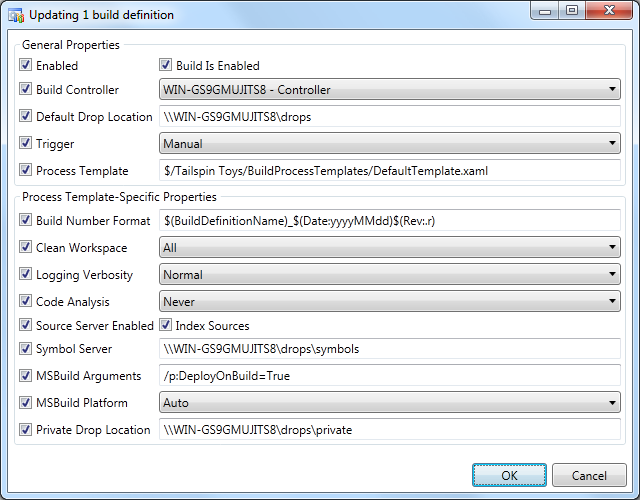
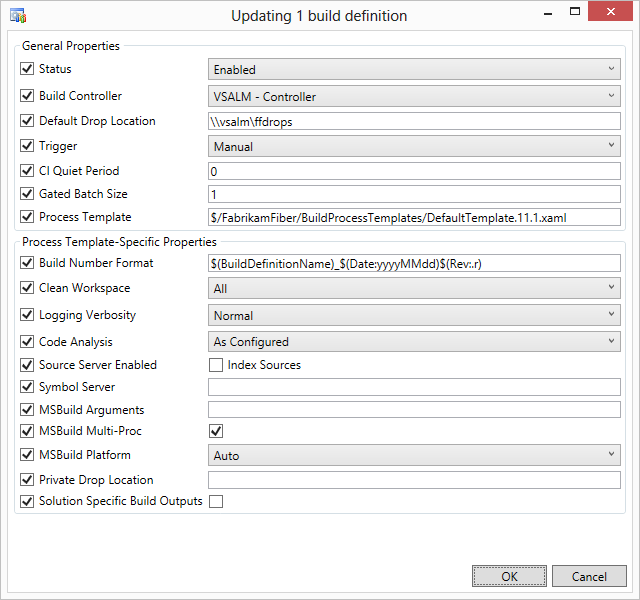
Merged changes from 2012 edition back to Main

diff --git a/TeamProjectManager.Modules.BuildDefinitions/BuildDefinitionUpdateDialog.xaml b/TeamProjectManager.Modules.BuildDefinitions/BuildDefinitionUpdateDialog.xaml
@@ -112,7 +112,7 @@
                         </ComboBox>
 
                         <CheckBox Grid.Row="4" Grid.Column="0" Margin="0,5,0,0" VerticalAlignment="Center" IsChecked="{Binding UpdateSourceServerEnabled}" Content="Source Server Enabled" />
-                        <CheckBox Grid.Row="4" Grid.Column="1" Margin="5,5,0,0" IsEnabled="{Binding UpdateSourceServerEnabled}" IsChecked="{Binding SourceServerEnabled}" Content="Index Sources" />
+                        <CheckBox Grid.Row="4" Grid.Column="1" Margin="5,5,0,0" IsEnabled="{Binding UpdateSourceServerEnabled}" IsChecked="{Binding SourceServerEnabled}" />
 
                         <CheckBox Grid.Row="5" Grid.Column="0" Margin="0,5,0,0" VerticalAlignment="Center" IsChecked="{Binding UpdateSymbolServerPath}" Content="Symbol Server" />
                         <TextBox Grid.Row="5" Grid.Column="1" Margin="5,5,0,0" IsEnabled="{Binding UpdateSymbolServerPath}" Text="{Binding SymbolServerPath}" />

diff --git a/TeamProjectManager.Modules.WorkItemConfiguration/ComparisonViewModel.cs b/TeamProjectManager.Modules.WorkItemConfiguration/ComparisonViewModel.cs
@@ -198,7 +198,7 @@ namespace TeamProjectManager.Modules.WorkItemConfiguration
         {
             var teamProjectNames = this.SelectedTeamProjects.Select(p => p.Name).ToList();
             var sources = this.ComparisonSources.ToList();
-            var task = new ApplicationTask("Comparing work item types", teamProjectNames.Count);
+            var task = new ApplicationTask("Comparing work item configurations", teamProjectNames.Count);
             PublishStatus(new StatusEventArgs(task));
             var step = 0;
             var worker = new BackgroundWorker();
@@ -235,7 +235,7 @@ namespace TeamProjectManager.Modules.WorkItemConfiguration
             {
                 if (e.Error != null)
                 {
-                    Logger.Log("An unexpected exception occurred while comparing work item types", e.Error);
+                    Logger.Log("An unexpected exception occurred while comparing work item configurations", e.Error);
                     task.SetError(e.Error);
                     task.SetComplete("An unexpected exception occurred");
                 }
